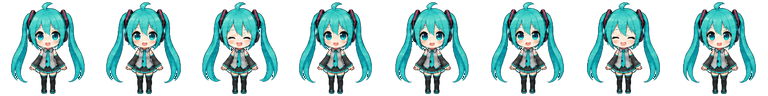
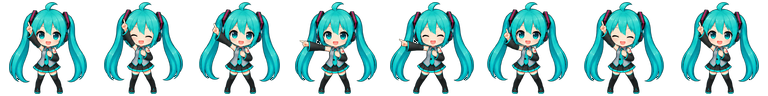
feat: add character-specific pet action sprites

diff --git a/src/floating-host.js b/src/floating-host.js
@@ -4,7 +4,7 @@ import { HYPNOSIS_RULES_API } from './hypnosis-rules.js';
 const BRIDGE_KEY = '__HYPNOOS3_CORE_BRIDGE__';
 const SINGLETON_KEY = '__HYPNOOS3_EXTENSION_FLOATING_SINGLETON__';
 const HOST_ID = 'hypnoos3-extension-floating-phone-host';
-const FRONTEND_REVISION = 'hypnoos3-1.0.0-input-order-unique-pets';
+const FRONTEND_REVISION = 'hypnoos3-1.0.0-character-action-sprites';
 
 function phoneFrame() {
   return document.querySelector(`#${HOST_ID}`)?.shadowRoot?.querySelector('iframe.phone') || null;

diff --git a/public/floating-bootstrap.js b/public/floating-bootstrap.js
@@ -1381,8 +1381,10 @@
       petRoamY = 0;
     }
 
+    var PET_ASSET_REVISION = "character-actions-20260828";
+
     function petAssetUrl(name) {
-      return String(config.assetBase || "").replace(/\/?$/, "/") + "pet/" + name;
+      return String(config.assetBase || "").replace(/\/?$/, "/") + "pet/" + name + "?revision=" + PET_ASSET_REVISION;
     }
 
     var PET_BASE_FACING = 1;

diff --git a/scripts/build-pet-strips.py b/scripts/build-pet-strips.py
@@ -164,6 +164,20 @@ def remove_alpha_specks(image: Image.Image) -> Image.Image:
     return source
 
 
+def remove_green_spill(image: Image.Image) -> Image.Image:
+    source = image.convert("RGBA")
+    pixels = source.load()
+    for y in range(source.height):
+        for x in range(source.width):
+            red, green, blue, alpha = pixels[x, y]
+            edge = max(red, blue)
+            if green > 80 and green > edge + 18:
+                pixels[x, y] = (0, 0, 0, 0)
+            elif green > 80 and green > edge + 6:
+                pixels[x, y] = (red, edge, blue, alpha)
+    return remove_alpha_specks(source)
+
+
 def compose_strip(frames: list[Image.Image]) -> Image.Image:
     strip = Image.new("RGBA", (FRAME_SIZE * len(frames), FRAME_SIZE), (0, 0, 0, 0))
     for index, frame in enumerate(frames):
@@ -178,6 +192,7 @@ def main() -> None:
     parser.add_argument("--output-dir", required=True, type=Path)
     parser.add_argument("--threshold", type=int, default=18)
     parser.add_argument("--layout", choices=("4x2", "8x1"), default="4x2")
+    parser.add_argument("--group", choices=GROUPS)
     args = parser.parse_args()
 
     frames: list[Image.Image] = []
@@ -189,26 +204,30 @@ def main() -> None:
             cell = remove_alpha_specks(source.crop((left, 0, right, source.height)))
             frames.append(normalize_frame(cell))
     else:
-        source = Image.open(args.source).convert("RGB")
-        if source.width % GRID_COLUMNS or source.height % GRID_ROWS:
-            raise ValueError("source dimensions must divide evenly into a 4x2 grid")
-        cell_width = source.width // GRID_COLUMNS
-        cell_height = source.height // GRID_ROWS
+        source = Image.open(args.source).convert("RGBA")
+        has_transparency = source.getchannel("A").getextrema()[0] < 255
         for row in range(GRID_ROWS):
             for column in range(GRID_COLUMNS):
+                left = round(column * source.width / GRID_COLUMNS)
+                right = round((column + 1) * source.width / GRID_COLUMNS)
+                top = round(row * source.height / GRID_ROWS)
+                bottom = round((row + 1) * source.height / GRID_ROWS)
                 cell = source.crop((
-                    column * cell_width,
-                    row * cell_height,
-                    (column + 1) * cell_width,
-                    (row + 1) * cell_height,
+                    left,
+                    top,
+                    right,
+                    bottom,
                 ))
-                frames.append(normalize_frame(remove_connected_background(cell, args.threshold)))
+                cleaned = remove_alpha_specks(cell) if has_transparency else remove_green_spill(remove_connected_background(cell, args.threshold))
+                frames.append(normalize_frame(cleaned))
 
     target = args.output_dir / args.pet_id
     target.mkdir(parents=True, exist_ok=True)
-    for group in GROUPS:
+    groups = (args.group,) if args.group else GROUPS
+    for group in groups:
         compose_strip(frames).save(target / f"{args.pet_id}-{group}-v5.png", optimize=True)
-    compose_strip(frames + frames[:4]).save(target / f"{args.pet_id}-landing-v5.png", optimize=True)
+    if not args.group:
+        compose_strip(frames + frames[:4]).save(target / f"{args.pet_id}-landing-v5.png", optimize=True)
 
 
 if __name__ == "__main__":

diff --git a/scripts/repair-pet-alpha.py b/scripts/repair-pet-alpha.py
@@ -1,6 +1,7 @@
 from __future__ import annotations
 
 import argparse
+import hashlib
 from pathlib import Path
 
 from collections import deque
@@ -11,6 +12,7 @@ from PIL import Image
 FRAME_SIZE = 96
 CHARACTERS = ("miku", "rem", "mai", "umaru")
 ACTION_GROUPS = ("idle", "drag", "unique-a", "unique-b", "enter", "exit", "landing")
+DISTINCT_ACTION_GROUPS = ("drag", "unique-a", "unique-b")
 
 
 def count_enclosed_transparent_pixels(path: Path) -> int:
@@ -51,6 +53,14 @@ def count_enclosed_transparent_pixels(path: Path) -> int:
     return enclosed
 
 
+def frame_digests(path: Path) -> list[str]:
+    source = Image.open(path).convert("RGBA")
+    return [
+        hashlib.sha256(source.crop((index * FRAME_SIZE, 0, (index + 1) * FRAME_SIZE, FRAME_SIZE)).tobytes()).hexdigest()
+        for index in range(source.width // FRAME_SIZE)
+    ]
+
+
 def main() -> None:
     parser = argparse.ArgumentParser(description="Check imported pet strips for transparent holes inside character silhouettes.")
     parser.add_argument("--asset-root", type=Path, default=Path("public/assets/pet/v5"))
@@ -58,6 +68,7 @@ def main() -> None:
     args = parser.parse_args()
 
     unresolved = []
+    repeated_actions = []
     total = 0
     for character in CHARACTERS:
         for group in ACTION_GROUPS:
@@ -66,11 +77,19 @@ def main() -> None:
             total += count
             if count:
                 unresolved.append((path, count))
+        idle_digests = frame_digests(args.asset_root / character / f"{character}-idle-v5.png")
+        for group in DISTINCT_ACTION_GROUPS:
+            path = args.asset_root / character / f"{character}-{group}-v5.png"
+            digests = frame_digests(path)
+            if len(set(digests)) < 3 or digests == idle_digests:
+                repeated_actions.append(path)
 
     if args.check and unresolved:
         details = ", ".join(f"{path}:{count}" for path, count in unresolved)
         raise SystemExit(f"pet action strips still contain enclosed transparent body pixels: {details}")
-    print(f"checked {total} enclosed transparent body pixels")
+    if args.check and repeated_actions:
+        raise SystemExit("pet action strips still repeat idle or contain fewer than three distinct frames: " + ", ".join(map(str, repeated_actions)))
+    print(f"checked {total} enclosed transparent body pixels and distinct action frames")
 
 
 if __name__ == "__main__":
